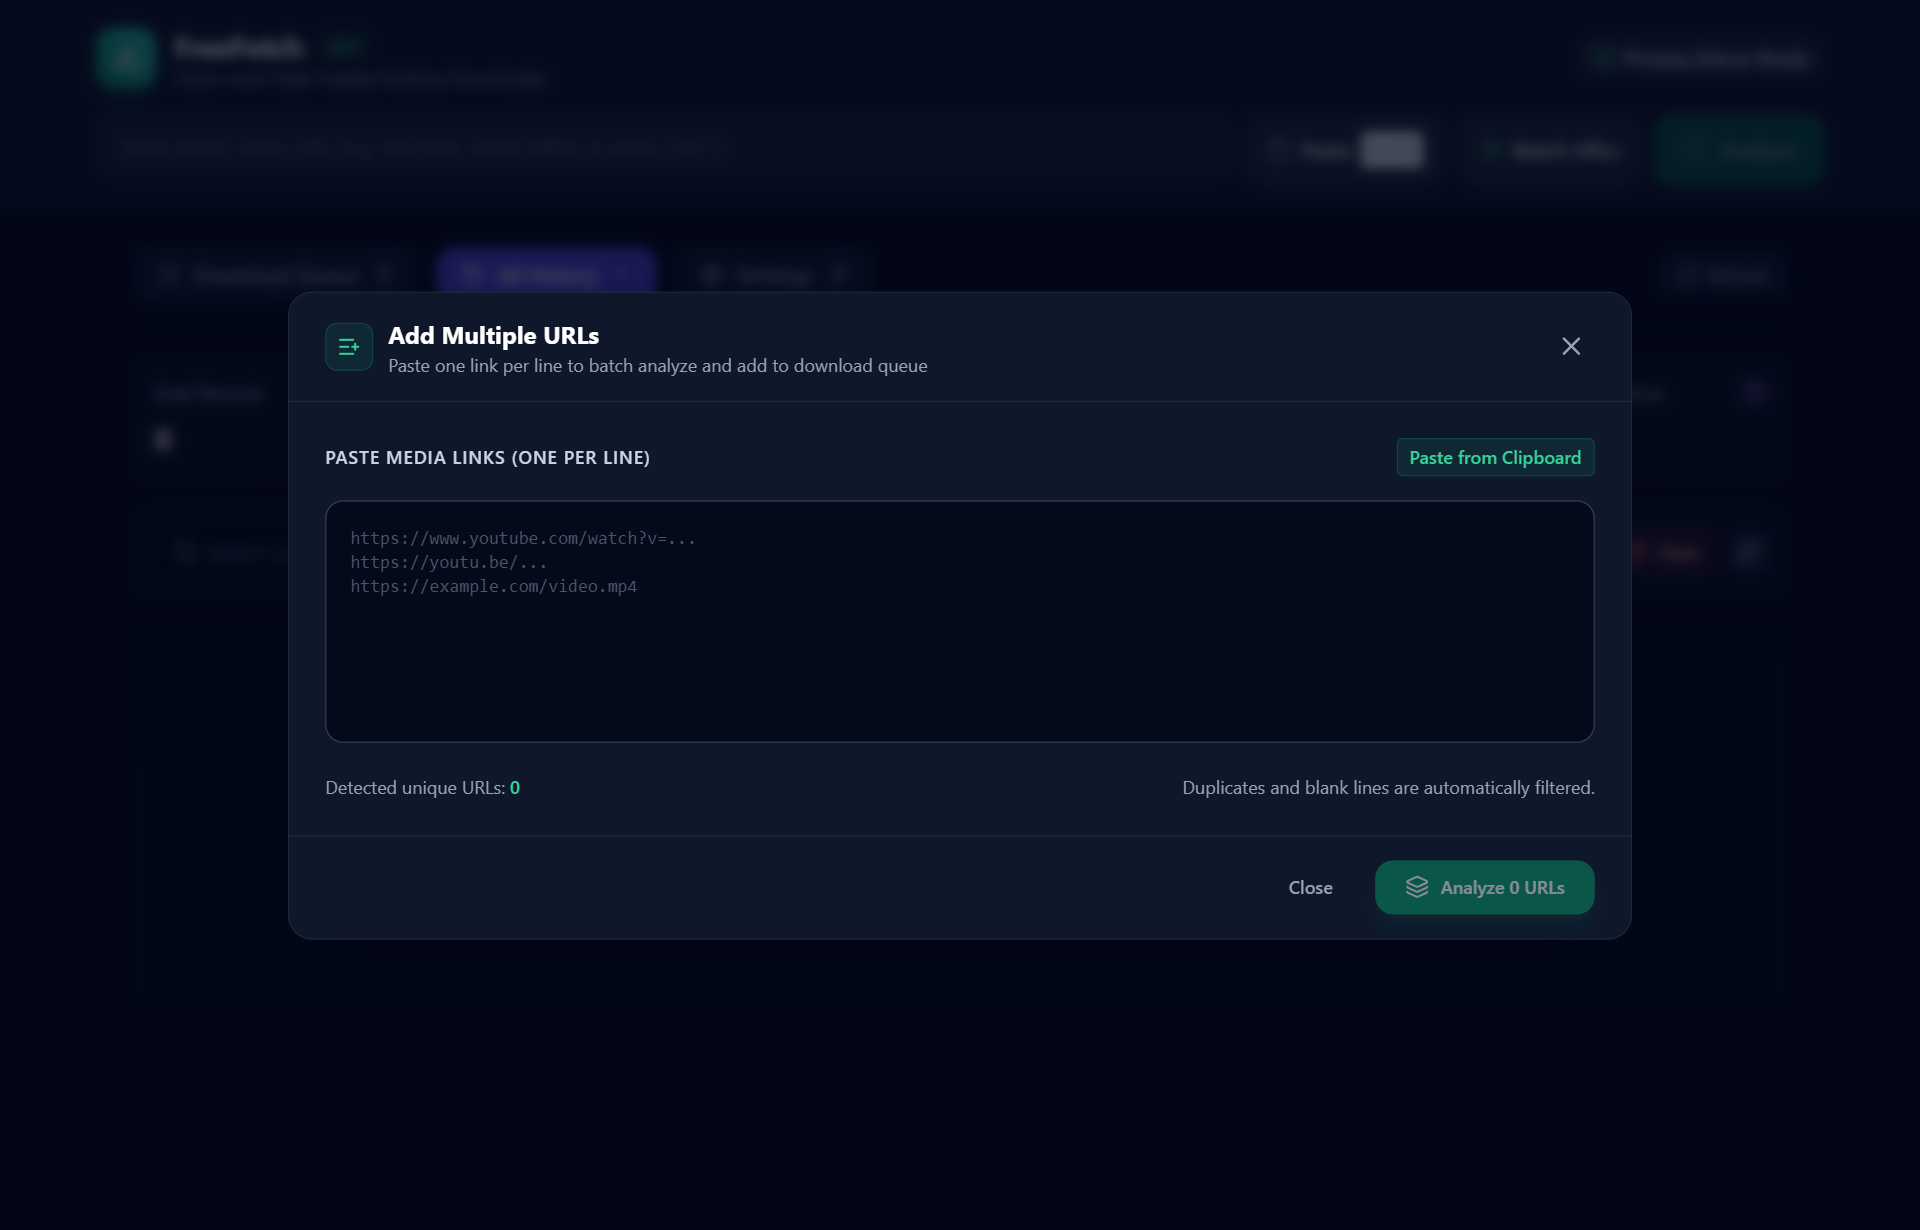
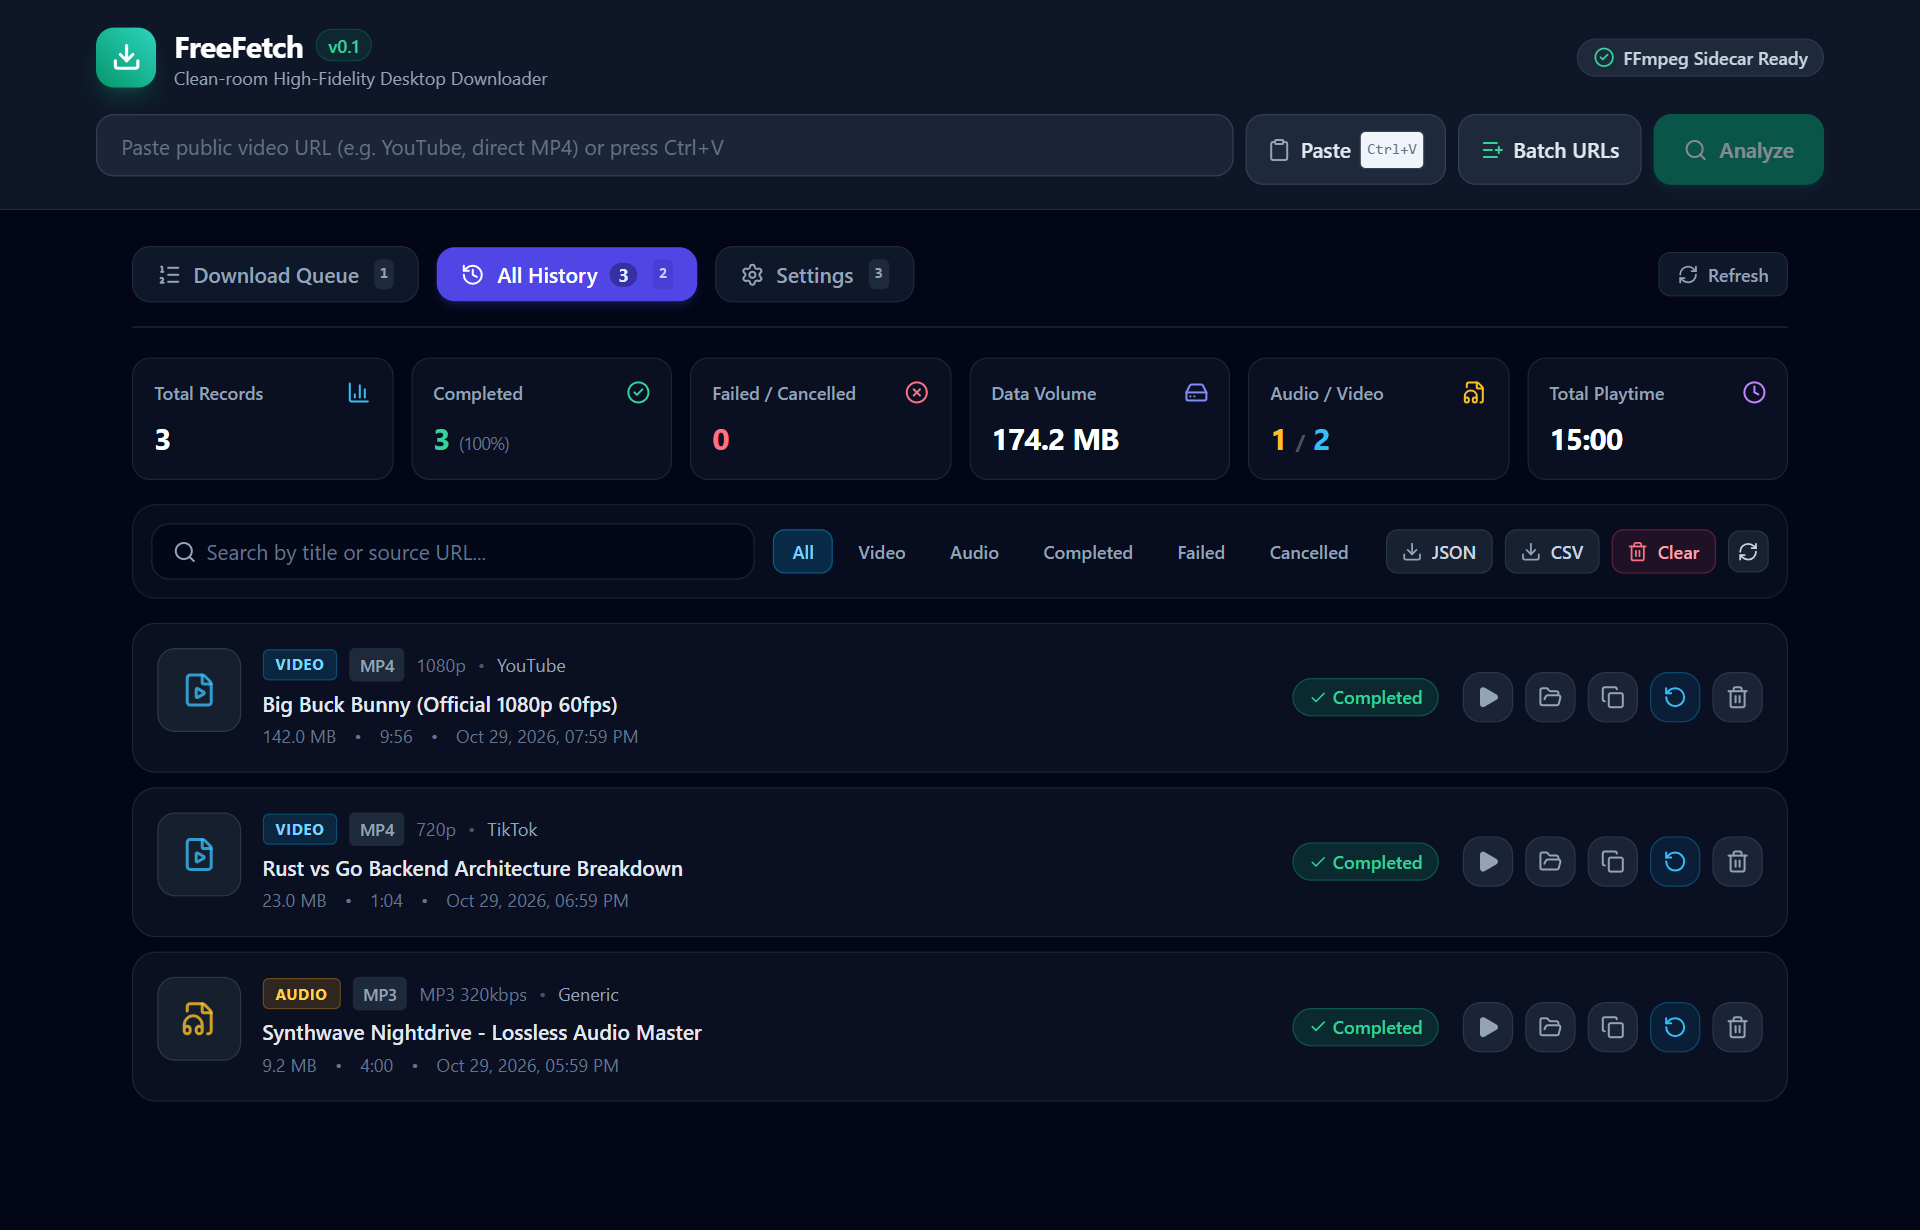
docs: fix history screenshot showing batch modal instead of SQLite history view
- Ensure all modals close before switching tabs
- Capture clean History & Analytics tab showing metric cards and SQLite rows
- Add scripts/seed_sample_data.py to populate realistic verification state

diff --git a/scripts/seed_sample_data.py b/scripts/seed_sample_data.py
@@ -1,0 +1,81 @@
+import sqlite3
+import os
+import time
+
+db_path = os.path.expandvars(r'%APPDATA%\FreeFetch\freefetch.db')
+print('Database path:', db_path)
+
+conn = sqlite3.connect(db_path)
+cur = conn.cursor()
+
+now = int(time.time())
+
+downloads = [
+    (
+        'dl-1',
+        'https://www.youtube.com/watch?v=aqz-KE-bpKQ',
+        'YouTube',
+        'Big Buck Bunny (Official 1080p 60fps)',
+        596,
+        'https://picsum.photos/320/180?1',
+        'C:\\Users\\FreeFetchUser\\Downloads\\BigBuckBunny_1080p.mp4',
+        'mp4',
+        '1080p',
+        148897792,
+        148897792,
+        'completed',
+        None,
+        now - 3600,
+        now - 3500,
+    ),
+    (
+        'dl-2',
+        'https://www.tiktok.com/@tech/video/123456789',
+        'TikTok',
+        'Rust vs Go Backend Architecture Breakdown',
+        64,
+        'https://picsum.photos/320/180?2',
+        'C:\\Users\\FreeFetchUser\\Downloads\\Rust_vs_Go_Tech.mp4',
+        'mp4',
+        '720p',
+        24117248,
+        24117248,
+        'completed',
+        None,
+        now - 7200,
+        now - 7180,
+    ),
+    (
+        'dl-3',
+        'https://soundcloud.com/audio/cyberpunk-synth',
+        'Generic',
+        'Synthwave Nightdrive - Lossless Audio Master',
+        240,
+        'https://picsum.photos/320/180?3',
+        'C:\\Users\\FreeFetchUser\\Downloads\\Synthwave_Nightdrive.mp3',
+        'mp3',
+        'MP3 320kbps',
+        9680000,
+        9680000,
+        'completed',
+        None,
+        now - 10800,
+        now - 10760,
+    ),
+]
+
+for d in downloads:
+    cur.execute(
+        """
+        INSERT OR REPLACE INTO downloads (
+            id, source_url, service_name, title, duration, thumbnail_url,
+            destination_path, container, quality_label, total_bytes, downloaded_bytes,
+            status, error_message, created_at, completed_at
+        ) VALUES (?, ?, ?, ?, ?, ?, ?, ?, ?, ?, ?, ?, ?, ?, ?)
+        """,
+        d,
+    )
+
+conn.commit()
+print('Downloads count:', cur.execute('SELECT COUNT(*) FROM downloads').fetchone()[0])
+conn.close()
